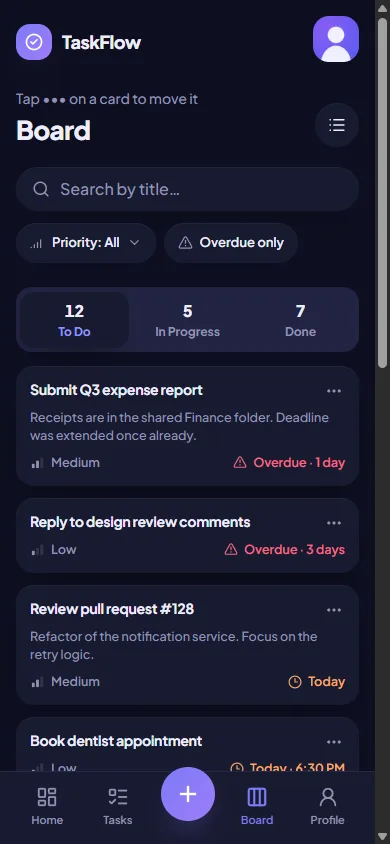
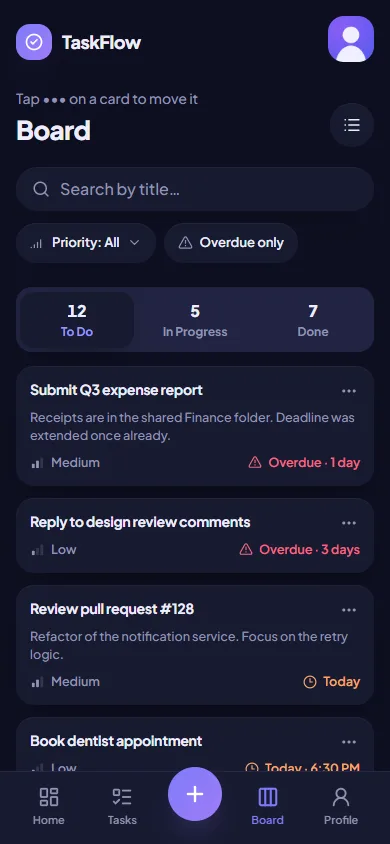
docs: refresh the README screenshots and add the calendar and activity pages
The screenshots now show the current sidebar, the pastel stat tiles, the
Log out button on the profile and the email change by code.

diff --git a/README.md b/README.md
@@ -16,6 +16,10 @@ It was built for a full-stack developer technical assessment. The required stack
     <td><img src="docs/screenshots/profile.webp" alt="Profile with account, security and connected accounts" /></td>
   </tr>
   <tr>
+    <td><img src="docs/screenshots/calendar.webp" alt="Month calendar of tasks by due date" /></td>
+    <td><img src="docs/screenshots/activity.webp" alt="Activity history with date and type filters" /></td>
+  </tr>
+  <tr>
     <td><img src="docs/screenshots/login.webp" alt="Login page" /></td>
     <td align="center">
       <img src="docs/screenshots/mobile-dashboard-dark.webp" alt="Mobile dashboard in dark mode" width="45%" />
